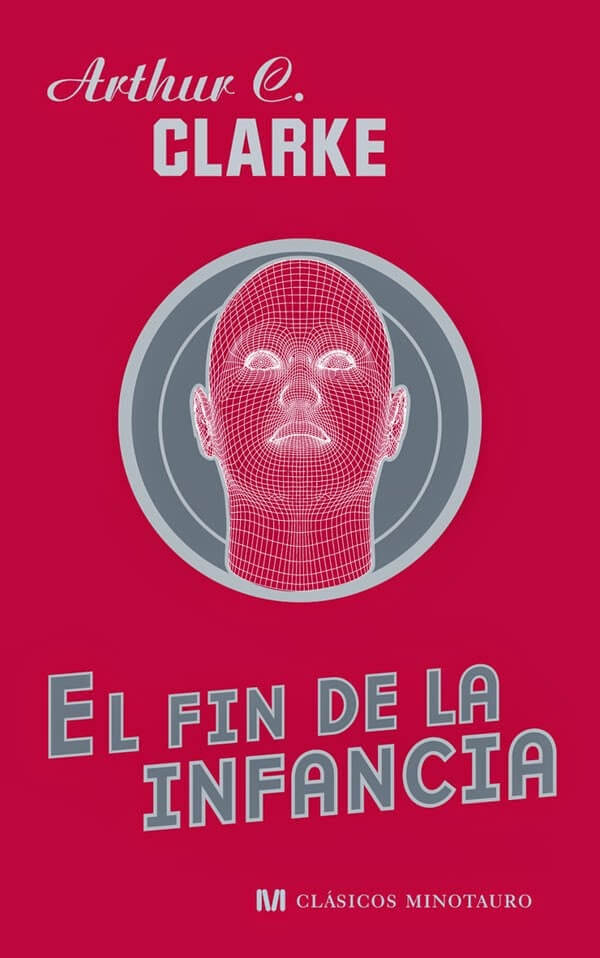
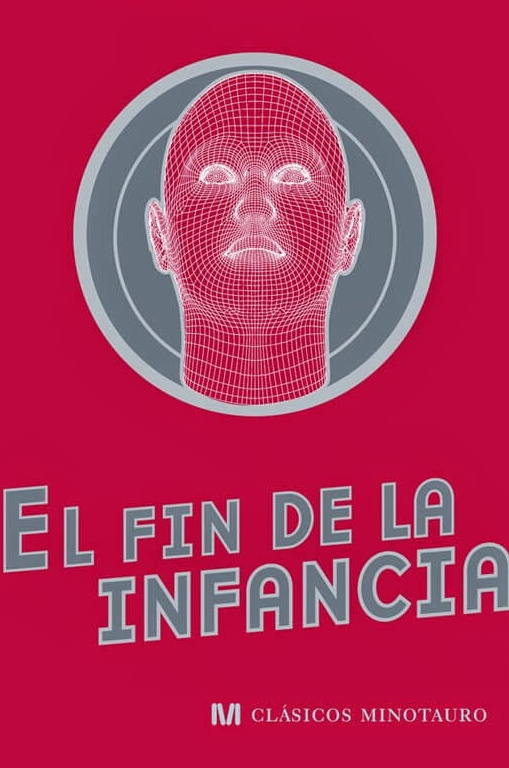
Modificada imagen

diff --git a/Libros.html b/Libros.html
@@ -117,7 +117,7 @@
             <main class="animated bounceInLeft">           
                 <ul>            
                     <li v-for="libro in listado" class="caratula">
-                        <a :title="libro.frase"><img :src="libro.imagen" >
+                        <a :title="libro.frase"><img :src="libro.imagen"  style="max-height: 200; max-width: 350">
                         {{libro.titulo}}
                         </a>
                     </li>                   
